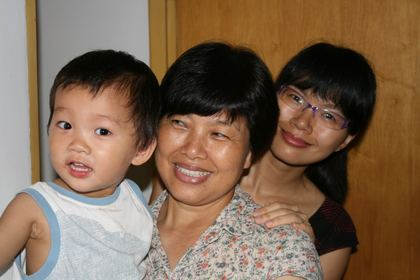
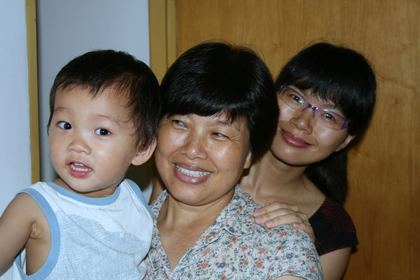
Replace p026/p088/p129/p131/p150/p185/p186 with corrected versions (?v=20261013)

diff --git a/photos.js b/photos.js
@@ -176,8 +176,8 @@ const PHOTOS = [
     "desc": "爱尔兰戈尔韦街头，外婆和卢慧在红色小汽车旁合影。"
   },
   {
-    "src": "photos/p026.jpg",
-    "thumb": "thumbs/t026.jpg",
+    "src": "photos/p026.jpg?v=20261013",
+    "thumb": "thumbs/t026.jpg?v=20261013",
     "when": "2007年8月11日",
     "title": "海滨步道",
     "desc": "爱尔兰戈尔韦海滨步道上，外婆、卢慧和宁可三人合影。"
@@ -610,8 +610,8 @@ const PHOTOS = [
     "desc": "家中，外婆抱着新生不久的二东，和宁可、大东合影，大东吃着小手。"
   },
   {
-    "src": "photos/p088.jpg",
-    "thumb": "thumbs/t088.jpg",
+    "src": "photos/p088.jpg?v=20261013",
+    "thumb": "thumbs/t088.jpg?v=20261013",
     "when": "2010年2月16日",
     "title": "家中照看",
     "desc": "家中，外婆穿着睡衣抱着熟睡的二东，大东在旁玩耍，母慈孙乐。"
@@ -897,8 +897,8 @@ const PHOTOS = [
     "desc": "广西百色市田阳区头塘镇知青联谊会现场，外婆抱着二东与朋友合影。"
   },
   {
-    "src": "photos/p129.jpg",
-    "thumb": "thumbs/t129.jpg",
+    "src": "photos/p129.jpg?v=20261013",
+    "thumb": "thumbs/t129.jpg?v=20261013",
     "when": "2011年5月8日",
     "title": "饭店聚餐",
     "desc": "饭店里，外婆、外公带着大东、二东聚餐。"
@@ -911,8 +911,8 @@ const PHOTOS = [
     "desc": "室内游乐场球池里，外婆陪二东玩球。"
   },
   {
-    "src": "photos/p131.jpg",
-    "thumb": "thumbs/t131.jpg",
+    "src": "photos/p131.jpg?v=20261013",
+    "thumb": "thumbs/t131.jpg?v=20261013",
     "when": "2011年5月14日",
     "title": "游乐场玩车",
     "desc": "商场室内游乐场，大东和二东玩小汽车，外婆在一旁照看。"
@@ -1044,8 +1044,8 @@ const PHOTOS = [
     "desc": "家中，卢慧和二东捧着鲜花与外婆合影。"
   },
   {
-    "src": "photos/p150.jpg",
-    "thumb": "thumbs/t150.jpg",
+    "src": "photos/p150.jpg?v=20261013",
+    "thumb": "thumbs/t150.jpg?v=20261013",
     "when": "2012年5月16日",
     "title": "亲密合影",
     "desc": "家中，外婆、卢慧和二东脸贴脸合影。"
@@ -1289,15 +1289,15 @@ const PHOTOS = [
     "desc": "广东深圳市福田区公园里，外婆抱着二东在石狮子与石碑前合影。"
   },
   {
-    "src": "photos/p185.jpg",
-    "thumb": "thumbs/t185.jpg",
+    "src": "photos/p185.jpg?v=20261013",
+    "thumb": "thumbs/t185.jpg?v=20261013",
     "when": "2012年10月21日",
     "title": "家中合影",
     "desc": "广东深圳市南山区天地峰景园小区家中，外婆抱着二东自拍。"
   },
   {
-    "src": "photos/p186.jpg",
-    "thumb": "thumbs/t186.jpg",
+    "src": "photos/p186.jpg?v=20261013",
+    "thumb": "thumbs/t186.jpg?v=20261013",
     "when": "2012年10月21日",
     "title": "沙发嬉闹",
     "desc": "广东深圳市南山区天地峰景园小区家中，外婆和二东在沙发上嬉闹。"
